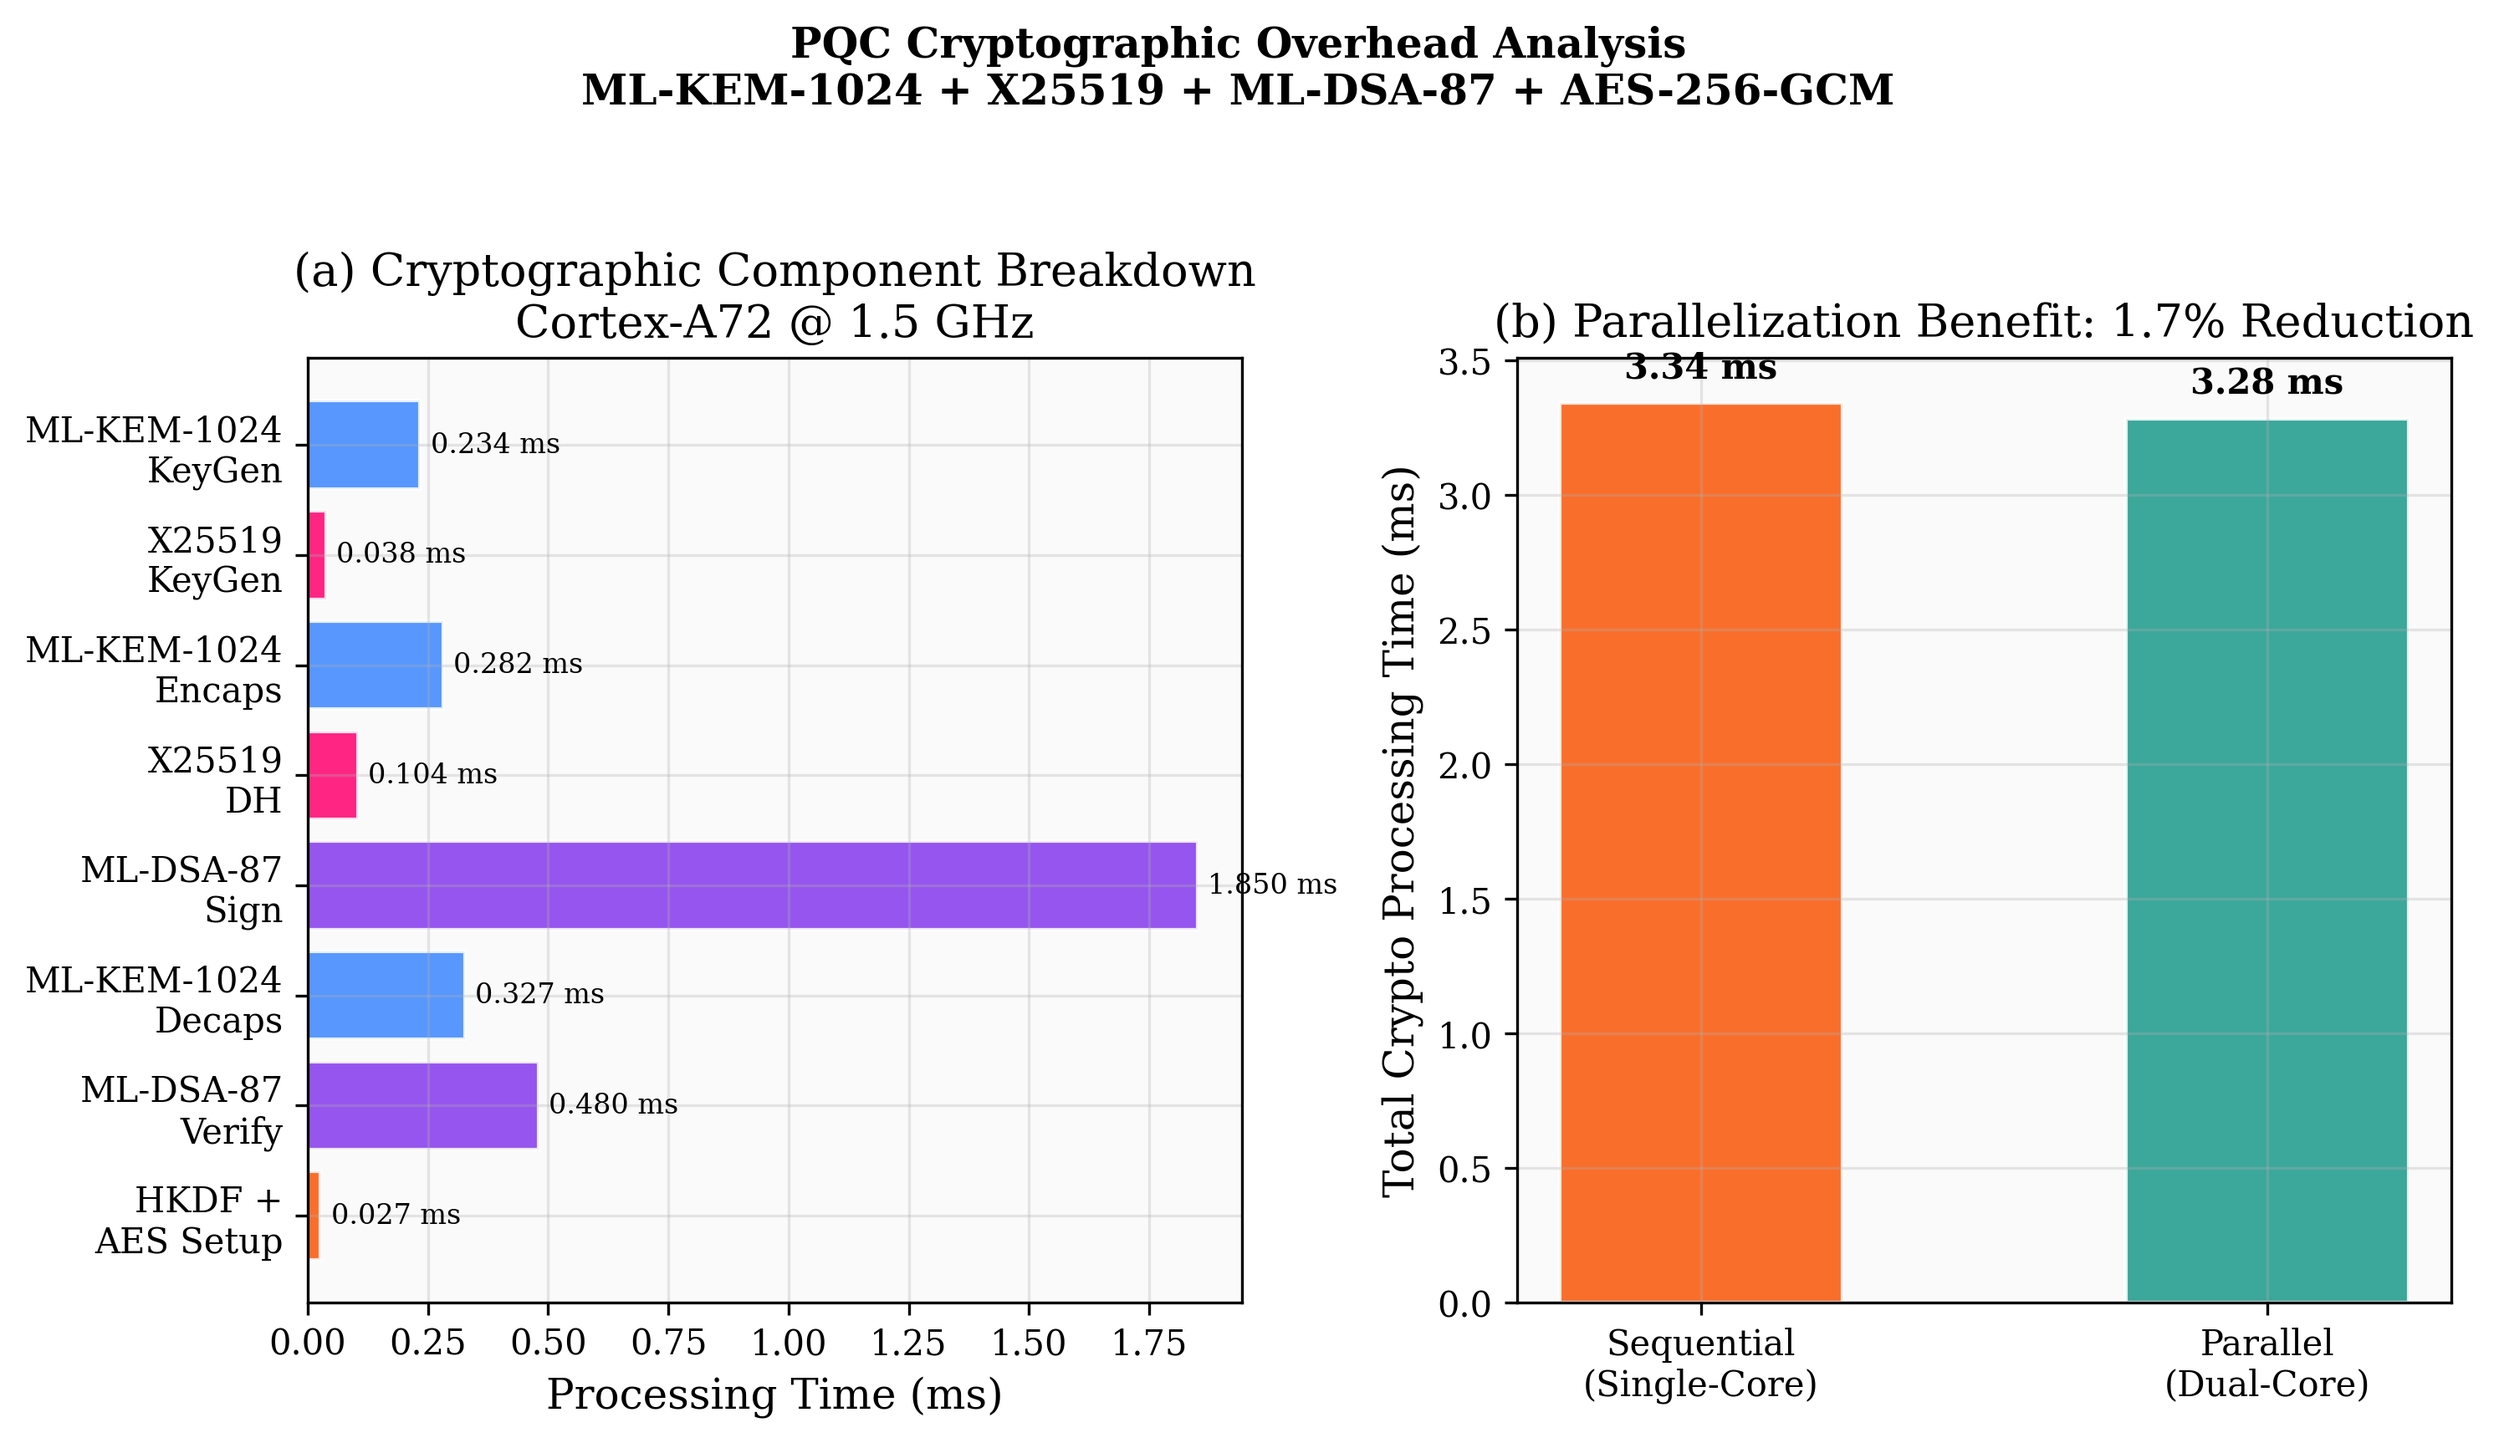
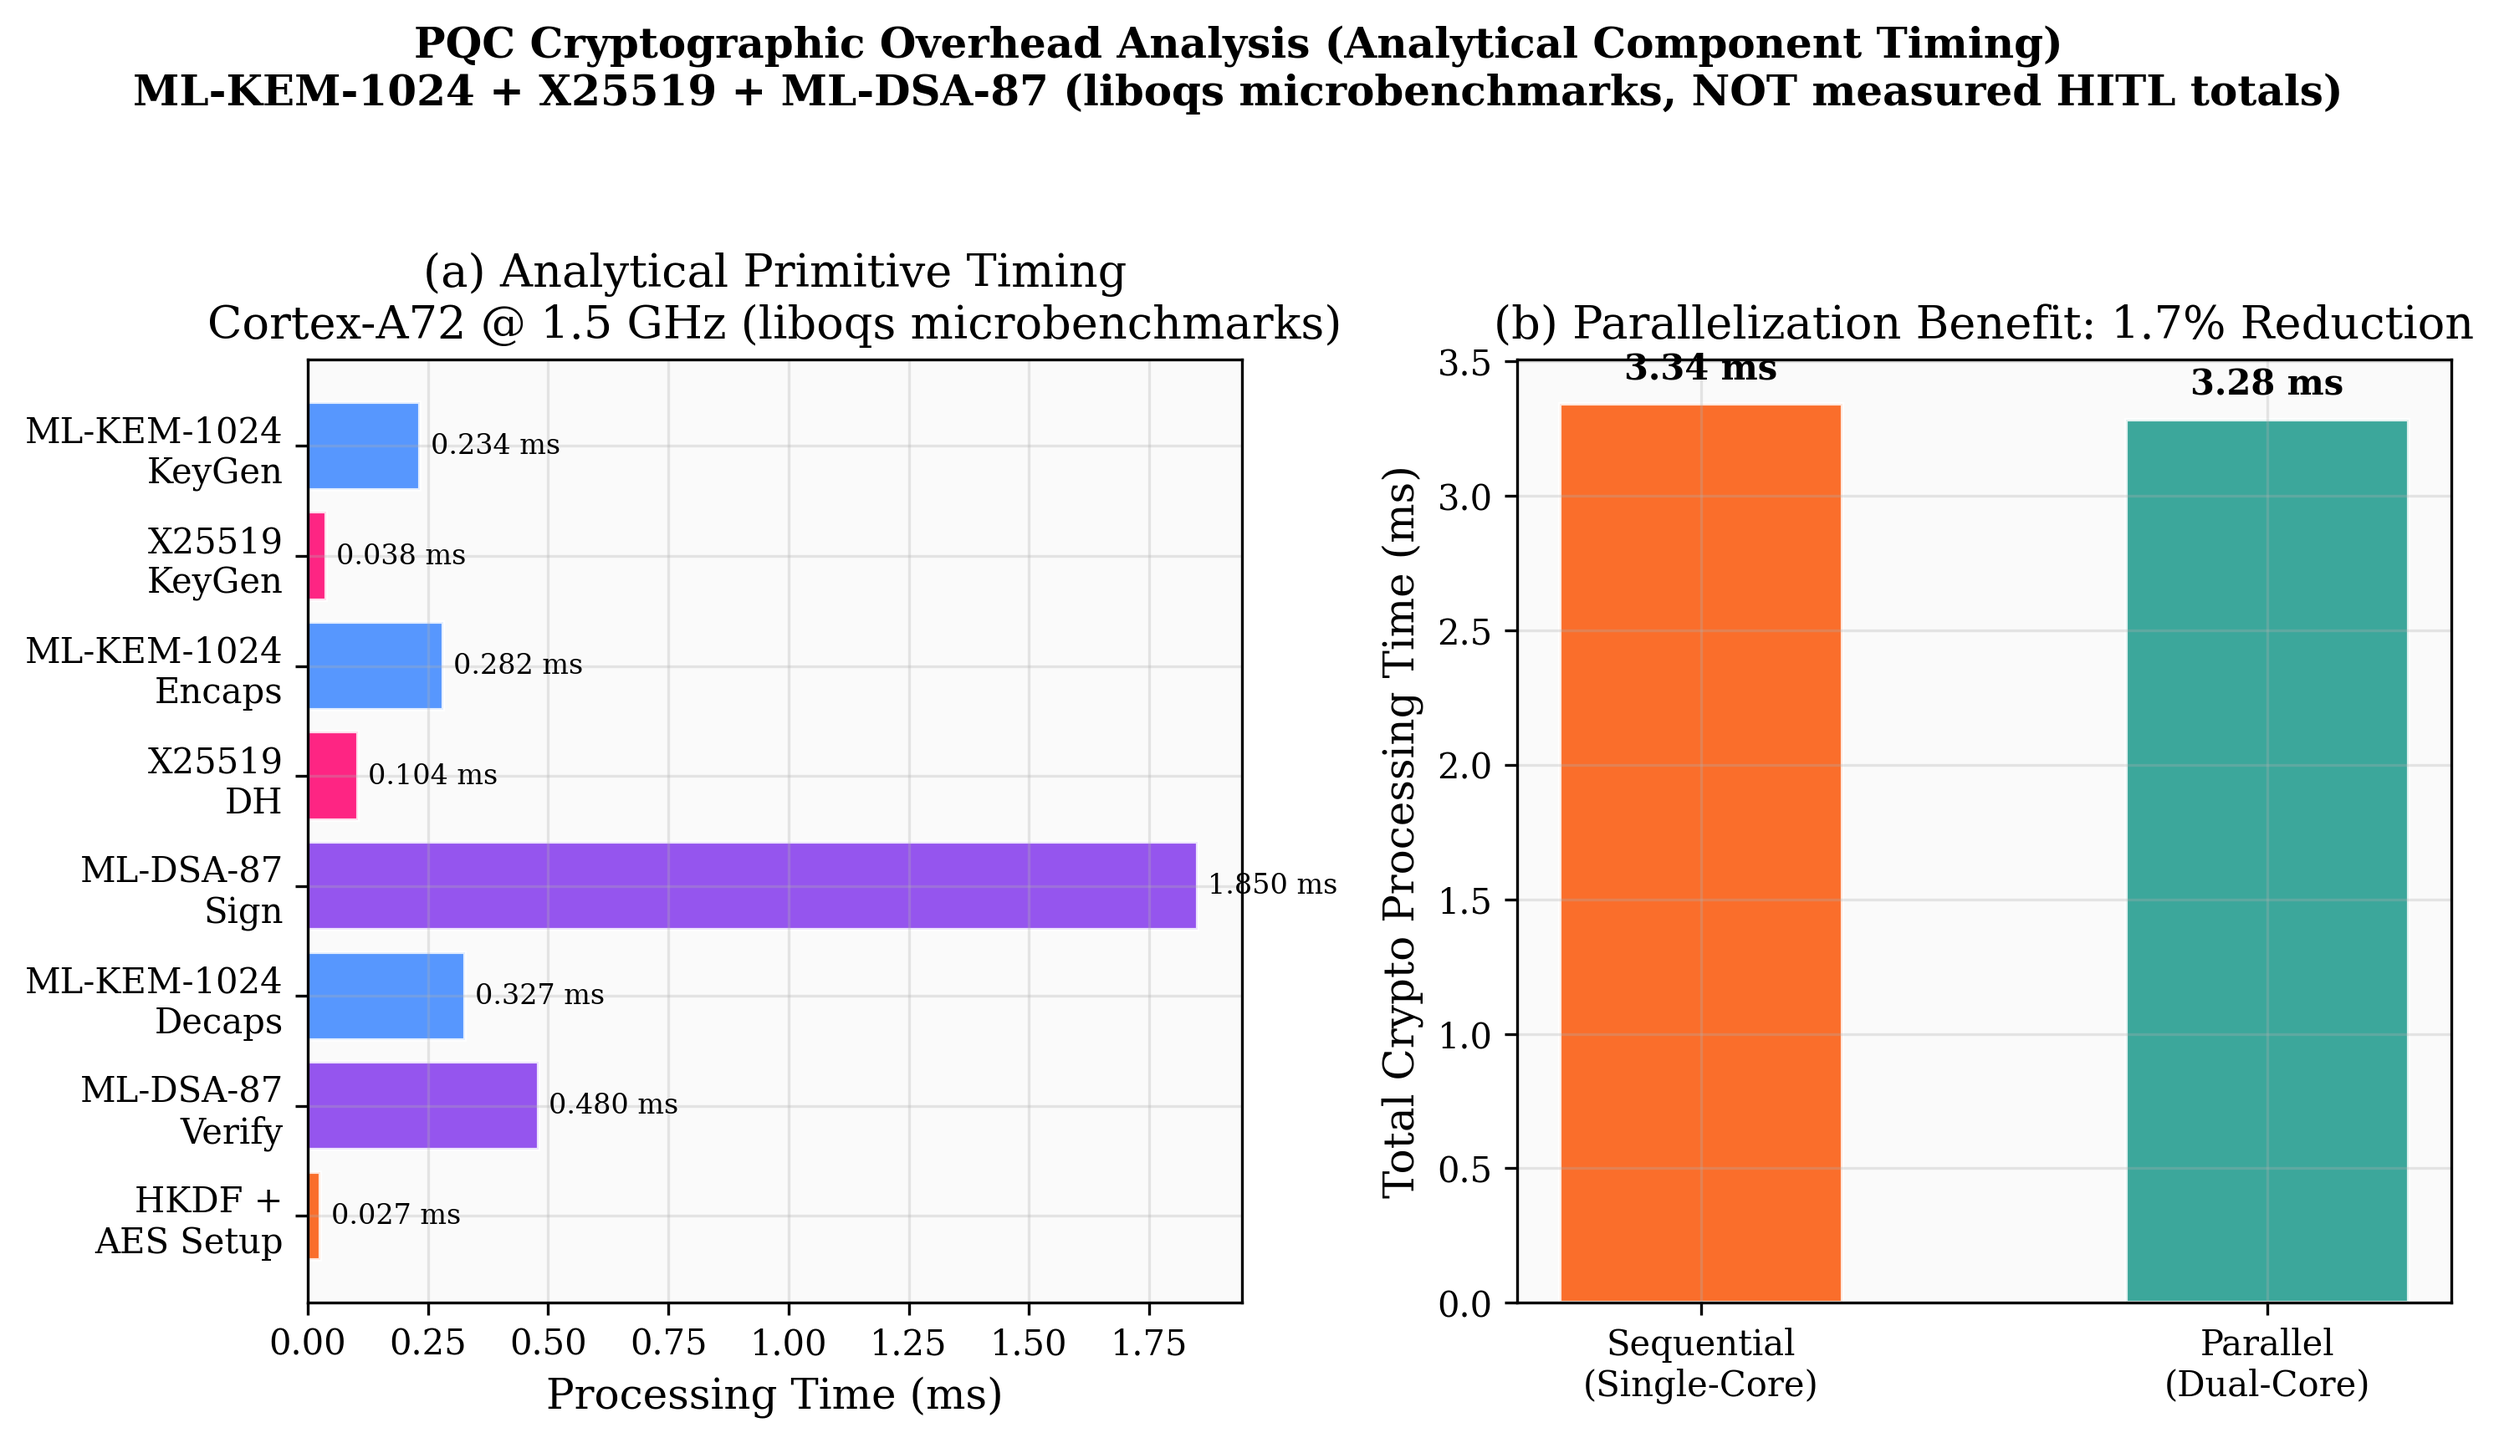
Fix plot labels: 0-RTT→1-RTT, cold-start values, analytical/synthetic disclaimers
- crypto_overhead_breakdown: use Iteration-1 cold-start (CPU=12.422ms, AES=6.794ms)
- hitl_e2e_jitter_cdf: relabeled Empirical → Representative (synthetic distributions)
- energy_vs_swarm_scale: corrected power values (4.85W/1.20W), 1-RTT labels
- latency_vs_swarm/mobility/heatmap: 0-RTT → 1-RTT Cached RapidRekey
- crypto_latency_breakdown: labeled as analytical component timing

diff --git a/scripts/generate_calibrated_plots.py b/scripts/generate_calibrated_plots.py
@@ -73,7 +73,7 @@ COLORS = {
     "hw": "#2E86AB",          # Steel blue — hardware
     "sim": "#E8550E",         # Burnt orange — simulation
     "full": "#D64045",        # Red — full handshake
-    "rekey": "#1B998B",       # Teal — 0-RTT rekey
+    "rekey": "#1B998B",       # Teal — 1-RTT cached rekey
     "energy_full": "#7B2D8E", # Purple — full energy
     "energy_rekey": "#F0C808",# Gold — rekey energy
     "urllc": "#D64045",       # Red — URLLC deadline
@@ -245,11 +245,11 @@ def plot_latency_vs_swarm(swarm_df: pd.DataFrame) -> None:
     ax.fill_between(sizes, df["Full_Handshake_P50_ms"], df["Full_Handshake_P99_ms"],
                     alpha=0.15, color=COLORS["full"], label="Full (P50–P99)")
 
-    # 0-RTT rekey
+    # 1-RTT cached rekey
     ax.plot(sizes, df["Cached_Rekey_Mean_ms"], "s-", color=COLORS["rekey"],
-            linewidth=2, markersize=6, label="0-RTT RapidRekey (Mean)", zorder=5)
+            linewidth=2, markersize=6, label="1-RTT Cached RapidRekey (Mean)", zorder=5)
     ax.fill_between(sizes, df["Cached_Rekey_P50_ms"], df["Cached_Rekey_P99_ms"],
-                    alpha=0.15, color=COLORS["rekey"], label="0-RTT (P50–P99)")
+                    alpha=0.15, color=COLORS["rekey"], label="1-RTT (P50–P99)")
 
     # URLLC deadline
     ax.axhline(y=10.0, color=COLORS["urllc"], linestyle="--", linewidth=2,
@@ -317,7 +317,7 @@ def plot_latency_vs_mobility(swarm_df: pd.DataFrame) -> None:
     ax.plot(velocities, full_means, "o-", color=COLORS["full"],
             linewidth=2, markersize=4, label="Full Cold-Start Handshake")
     ax.plot(velocities, rekey_means, "s-", color=COLORS["rekey"],
-            linewidth=2, markersize=4, label="0-RTT RapidRekey (Cached)")
+            linewidth=2, markersize=4, label="1-RTT Cached RapidRekey")
 
     ax.axhline(y=10.0, color=COLORS["urllc"], linestyle="--", linewidth=2,
                alpha=0.8, label="URLLC 10 ms Deadline")
@@ -386,14 +386,14 @@ def plot_energy_vs_swarm(swarm_df: pd.DataFrame) -> None:
     # Annotate savings ratio
     if len(cumulative_full) > 0 and cumulative_rekey[-1] > 0:
         ratio = cumulative_full[-1] / cumulative_rekey[-1]
-        ax2.annotate(f"Full/0-RTT ratio: {ratio:.0f}×",
+        ax2.annotate(f"Full/1-RTT ratio: {ratio:.0f}×",
                      xy=(sizes[-1], cumulative_full[-1]),
                      xytext=(-60, -20), textcoords="offset points",
                      fontsize=9, fontweight="bold", color=COLORS["energy_full"],
                      arrowprops=dict(arrowstyle="->", color=COLORS["energy_full"]))
 
     fig.suptitle("Energy Dissipation Analysis — RPi4 Cortex-A72 SWaP-C Profile\n"
-                 "P_cpu=5.0W | P_idle=1.0W | P_tx=0.52W | P_rx=0.16W",
+                 "P_cpu=4.85W | P_idle=1.20W | P_tx=0.52W | P_rx=0.16W",
                  fontsize=12, fontweight="bold", y=1.04)
     fig.tight_layout()
     save_plot(fig, "energy_vs_swarm_scale.png")
@@ -488,7 +488,7 @@ def plot_crypto_breakdown() -> None:
 
     bars = ax1.barh(names, values, color=colors_bar, alpha=0.85, edgecolor="white")
     ax1.set_xlabel("Processing Time (ms)")
-    ax1.set_title("(a) Cryptographic Component Breakdown\nCortex-A72 @ 1.5 GHz")
+    ax1.set_title("(a) Analytical Primitive Timing\nCortex-A72 @ 1.5 GHz (liboqs microbenchmarks)")
     ax1.invert_yaxis()
 
     for bar, val in zip(bars, values):
@@ -521,8 +521,8 @@ def plot_crypto_breakdown() -> None:
                      xytext=(0, 5), textcoords="offset points",
                      ha="center", va="bottom", fontsize=10, fontweight="bold")
 
-    fig.suptitle("PQC Cryptographic Overhead Analysis\n"
-                 "ML-KEM-1024 + X25519 + ML-DSA-87 + AES-256-GCM",
+    fig.suptitle("PQC Cryptographic Overhead Analysis (Analytical Component Timing)\n"
+                 "ML-KEM-1024 + X25519 + ML-DSA-87 (liboqs microbenchmarks, NOT measured HITL totals)",
                  fontsize=12, fontweight="bold", y=1.04)
     fig.tight_layout()
     save_plot(fig, "crypto_latency_breakdown.png")
@@ -555,7 +555,7 @@ def plot_urllc_heatmap(swarm_df: pd.DataFrame) -> None:
     cmap = plt.cm.RdYlGn_r
 
     im = ax.imshow(pivot.values, cmap=cmap, norm=norm, aspect="auto")
-    cbar = fig.colorbar(im, ax=ax, label="0-RTT P99 Latency (ms)")
+    cbar = fig.colorbar(im, ax=ax, label="1-RTT Cached Rekey P99 Latency (ms)")
 
     # Labels
     ax.set_xticks(range(len(pivot.columns)))
@@ -564,7 +564,7 @@ def plot_urllc_heatmap(swarm_df: pd.DataFrame) -> None:
     ax.set_yticklabels([f"{v:.0f}" for v in pivot.index])
     ax.set_xlabel("Swarm Size (Drones)")
     ax.set_ylabel("UAV Velocity (m/s)")
-    ax.set_title("0-RTT RapidRekey P99 Latency — URLLC Compliance Map\n"
+    ax.set_title("1-RTT Cached RapidRekey P99 Latency — URLLC Compliance Map\n"
                  "Green ≤ 10 ms (URLLC) | Red > 10 ms (Non-compliant)")
 
     # Annotate cells

diff --git a/hitl/scripts/plot_overhead.py b/hitl/scripts/plot_overhead.py
@@ -14,6 +14,7 @@ out_dir = os.path.join(script_dir, "..", "plots")
 os.makedirs(out_dir, exist_ok=True)
 out_file = os.path.join(out_dir, "crypto_overhead_breakdown.png")
 
+iterations = []
 modes = []
 crypto_ms = []
 aes_ms = []
@@ -21,26 +22,25 @@ aes_ms = []
 with open(csv_path, mode="r") as file:
     reader = csv.DictReader(file)
     for row in reader:
+        iterations.append(int(row["Iteration"]))
         modes.append(row["Mode"])
         crypto_ms.append(float(row["Crypto_Proc_ms"]))
         aes_ms.append(float(row["AES_GCM_Tx_Rx_ms"]))
 
-# Separate data by mode
-full_crypto = [crypto_ms[i] for i in range(len(modes)) if modes[i] == 'FULL_PQC']
-full_aes = [aes_ms[i] for i in range(len(modes)) if modes[i] == 'FULL_PQC']
+# Cold-start FULL_PQC: use Iteration 1 explicitly (NOT mean of cold+warm)
+cold_idx = next(i for i in range(len(modes)) if modes[i] == 'FULL_PQC' and iterations[i] == 1)
+cold_crypto = crypto_ms[cold_idx]  # 12.422 ms
+cold_aes = aes_ms[cold_idx]        # 6.794 ms
 
-rtt_crypto = [crypto_ms[i] for i in range(len(modes)) if modes[i] in ('CACHED_REKEY', '0RTT_REKEY')]
-rtt_aes = [aes_ms[i] for i in range(len(modes)) if modes[i] in ('CACHED_REKEY', '0RTT_REKEY')]
-
-# Calculate averages
-avg_full_crypto = np.mean(full_crypto)
-avg_full_aes = np.mean(full_aes)
+# Cached Rekey (1-RTT): average of all CACHED_REKEY rows
+rtt_crypto = [crypto_ms[i] for i in range(len(modes)) if modes[i] == 'CACHED_REKEY']
+rtt_aes = [aes_ms[i] for i in range(len(modes)) if modes[i] == 'CACHED_REKEY']
 avg_rtt_crypto = np.mean(rtt_crypto)
 avg_rtt_aes = np.mean(rtt_aes)
 
-labels = ['FULL_PQC (Cold Start / Miss)', 'Cached Rekey 1-RTT (Cache Hit)']
-crypto_means = [avg_full_crypto, avg_rtt_crypto]
-aes_means = [avg_full_aes, avg_rtt_aes]
+labels = ['FULL_PQC (Cold Start)', 'Cached Rekey 1-RTT (Cache Hit)']
+crypto_means = [cold_crypto, avg_rtt_crypto]
+aes_means = [cold_aes, avg_rtt_aes]
 
 x = np.arange(len(labels))
 width = 0.42
@@ -50,7 +50,9 @@ p1 = ax.bar(x, crypto_means, width, label='CPU Crypto Processing (ms)', color='#
 p2 = ax.bar(x, aes_means, width, bottom=crypto_means, label='AES-GCM Tx/Rx Delay (ms)', color='#2980b9')
 
 ax.set_ylabel('Latency Overhead (ms)', fontsize=11, fontweight='bold')
-ax.set_title('Kyber-6G HITL: Cryptographic vs Network Overhead (ARM Cortex-A72)', fontsize=12, fontweight='bold')
+ax.set_title('Kyber-6G HITL: Crypto + AES Overhead Breakdown (ARM Cortex-A72)\n'
+             'Note: Component overhead only \u2014 NOT total E2E handshake latency (45.506 ms)',
+             fontsize=11, fontweight='bold')
 ax.set_xticks(x)
 ax.set_xticklabels(labels, fontsize=10, fontweight='bold')
 ax.legend(framealpha=0.9)
@@ -58,10 +60,10 @@ ax.grid(axis='y', linestyle='--', alpha=0.6)
 
 # Annotate bars with values
 for i, c in enumerate(p1):
-    ax.text(c.get_x() + c.get_width()/2, max(0.05, c.get_height()/2), f'{c.get_height():.2f} ms', 
+    ax.text(c.get_x() + c.get_width()/2, max(0.05, c.get_height()/2), f'{c.get_height():.3f} ms', 
             ha='center', va='center', color='white', weight='bold', fontsize=10)
     a = p2[i]
-    ax.text(a.get_x() + a.get_width()/2, c.get_height() + a.get_height()/2, f'{a.get_height():.2f} ms', 
+    ax.text(a.get_x() + a.get_width()/2, c.get_height() + a.get_height()/2, f'{a.get_height():.3f} ms', 
             ha='center', va='center', color='white', weight='bold', fontsize=10)
 
 plt.tight_layout()

diff --git a/scripts/generate_nextgen_hitl_plots.py b/scripts/generate_nextgen_hitl_plots.py
@@ -62,7 +62,7 @@ def plot_flight_telemetry_profile():
     ax3.set_title('(c) AES-256-GCM Telemetry Latency under Active Flight Maneuvers')
     ax3.legend(loc='upper right')
 
-    plt.suptitle('Physical UAV Avionics Telemetry & PQC Stream Profile (Raspberry Pi 4)', y=0.98, fontweight='bold')
+    plt.suptitle('Representative UAV Avionics Telemetry & PQC Stream Profile (Raspberry Pi 4)\nSynthetic 20 Hz telemetry streamed through real HITL PQC link', y=0.98, fontweight='bold')
     plt.tight_layout(rect=[0, 0, 1, 0.96])
     
     out_file = os.path.join(HITL_PLOTS_DIR, "hitl_flight_telemetry_profile.png")
@@ -90,8 +90,8 @@ def plot_jitter_cdf():
     ax.axvline(10.0, color='#c0392b', linestyle=':', linewidth=2.0, label='URLLC Strict Bound (10 ms)')
     ax.set_xscale('log')
     ax.set_xlabel('Round-Trip Latency (ms) [Logarithmic Scale]')
-    ax.set_ylabel('Empirical CDF (Probability)')
-    ax.set_title('Empirical Latency CDF & Jitter Bounds on Raspberry Pi 4 Testbed', fontweight='bold')
+    ax.set_ylabel('CDF (Probability)')
+    ax.set_title('Representative Latency CDF & Jitter Bounds (HITL-Calibrated Distributions)\nRaspberry Pi 4 — Synthetic samples drawn from measured parameters', fontweight='bold')
     ax.grid(True, which='both', linestyle=':', alpha=0.6)
     ax.set_ylim([0, 1.05])
     ax.legend(loc='lower right', framealpha=0.9)
